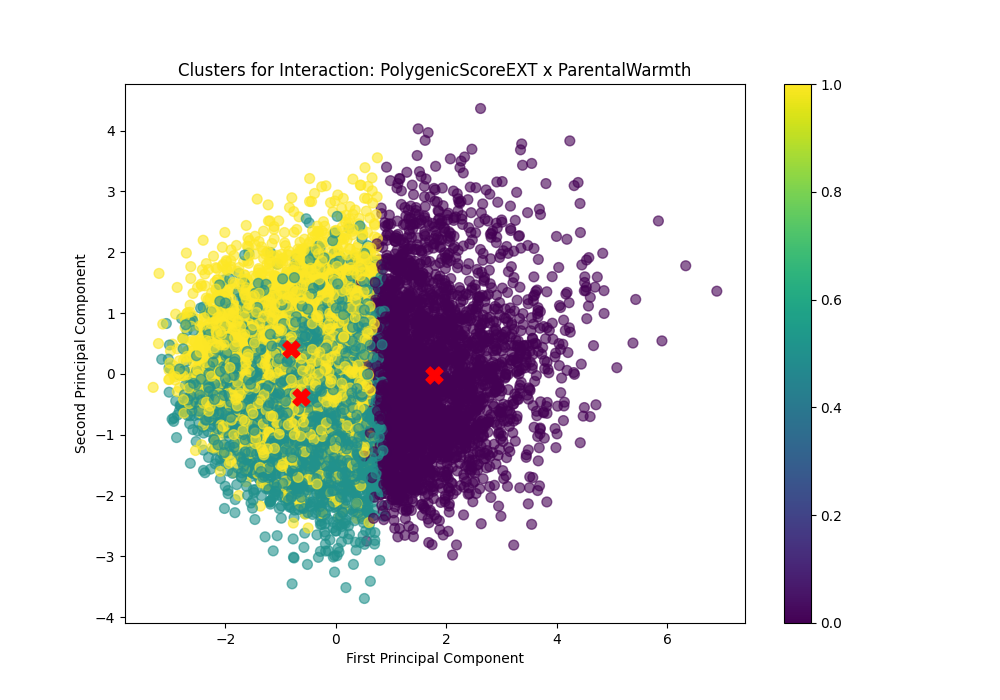
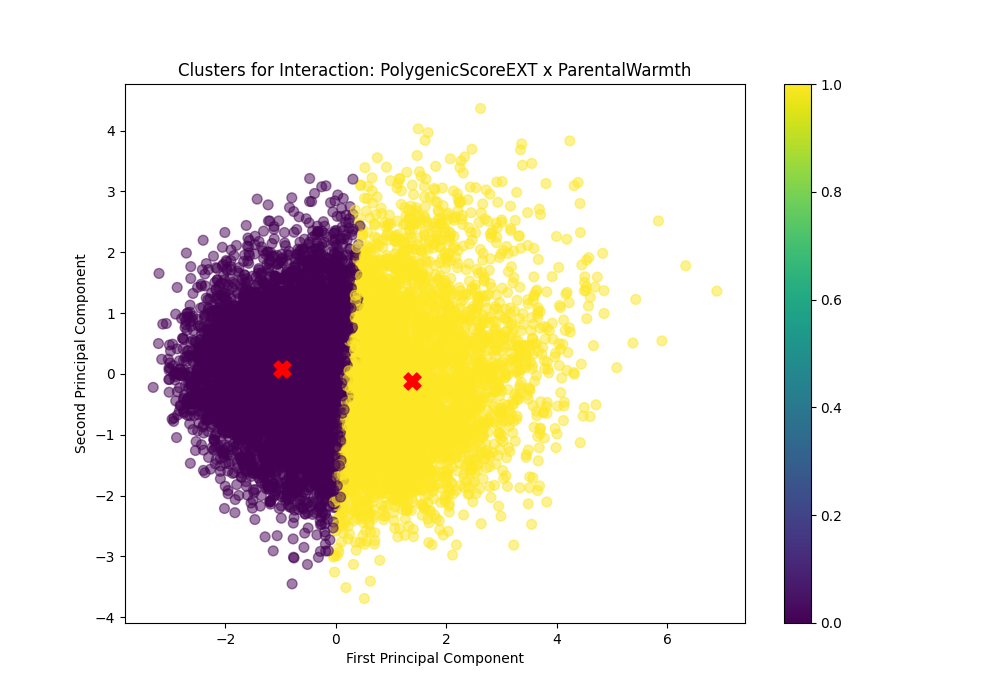
adding files realted to cluster analysis

diff --git a/Phase_1/project_scripts/evaluation/shapley_analysis.py b/Phase_1/project_scripts/evaluation/shapley_analysis.py
@@ -1,0 +1,99 @@
+import os
+import logging
+import pickle
+
+import shap
+import pandas as pd
+from sklearn.linear_model import LogisticRegression
+
+from Phase_1.config import TARGET_1, FEATURES
+from Phase_1.project_scripts import get_path_from_root
+from Phase_1.project_scripts.preprocessing.preprocessing import preprocess_ovr, split_data, imputation_pipeline, \
+    imputation_applier, scaling_pipeline, scaling_applier, balance_data
+from Phase_1.project_scripts.utility.data_loader import load_data_old
+from Phase_1.project_scripts.utility.model_utils import add_interaction_terms, train_model, save_results, \
+    ensure_directory_exists
+
+logging.basicConfig(level=logging.INFO)
+logger = logging.getLogger(__name__)
+
+MODEL_NAME = "logistic_regression_shapley"
+RESULTS_DIR = get_path_from_root("results", "evaluation", "shapley_analysis")
+TYPE_OF_CLASSIFICATION = "binary"
+
+
+def compute_shap_values(model, X):
+    explainer = shap.Explainer(model)
+    shap_values = explainer.shap_values(X)
+    return shap_values
+
+
+def save_shap_values(shap_values, key):
+    save_path = get_path_from_root(RESULTS_DIR, f"shap_values_{key}.pkl")
+    os.makedirs(os.path.dirname(save_path), exist_ok=True)
+    with open(save_path, 'wb') as file:
+        pickle.dump(shap_values, file)
+
+
+def main():
+    logger.info("Starting Shapley value analysis for one-vs-all logistic regression...")
+
+    ensure_directory_exists(RESULTS_DIR)
+
+    # Load data
+    df = load_data_old()
+    datasets = preprocess_ovr(df, "AntisocialTrajectory")
+
+    features = FEATURES.copy()
+    features.remove("PolygenicScoreEXT")
+    fixed_element = "PolygenicScoreEXT"
+
+    feature_pairs = [(fixed_element, x) for x in features if x != fixed_element]
+
+    for key, (X, y) in datasets.items():
+        for feature_pair in feature_pairs:
+            # Split, train using df_temp, and get metrics
+            X_train, X_test, y_train, y_test = split_data(X, y)
+
+            # Applying imputation and one-hot encoding on training data
+            impute = imputation_pipeline()
+            X_train_imputed = imputation_applier(impute, X_train)
+
+            # Generate interaction terms using the transformed column names for training data
+            X_train_final = add_interaction_terms(X_train_imputed, feature_pair)
+
+            # Capture transformed column names after preprocessing the training data
+            transformed_columns = X_train_final.columns.tolist()
+
+            # Applying imputation and one-hot encoding on testing data
+            X_test_imputed = imputation_applier(impute, X_test)
+
+            # Generate interaction terms using the transformed column names for testing data
+            X_test_final = add_interaction_terms(X_test_imputed, feature_pair)
+            X_test_final = pd.DataFrame(X_test_final)
+
+            # Applying scaling
+            scaler = scaling_pipeline(transformed_columns)
+            X_train_imputed_scaled, X_test_imputed_scaled = scaling_applier(scaler, X_train_final, X_test_final)
+            X_train_imputed_scaled = pd.DataFrame(X_train_imputed_scaled)
+
+            # Balancing data
+            # logger.info(f"Distribution before balancing:\n{y_train.value_counts(normalize=True)}\n")
+            X_train_resampled, y_train_resampled = balance_data(X_train_imputed_scaled, y_train, key)
+
+            # Training the model (you may want to reuse your train_model function)
+            model = LogisticRegression(max_iter=10000, multi_class='ovr', penalty="elasticnet", solver="saga", l1_ratio=0.5)
+            best_model = train_model(X_train_resampled, y_train_resampled, model, None, MODEL_NAME)
+
+            # Compute Shapley values
+            shap_values = compute_shap_values(best_model, X_test_imputed_scaled)
+
+            # Save Shapley values
+            save_shap_values(shap_values, key)
+        logger.info(f"Completed Shapley analysis for {key}.")
+
+    logger.info("Shapley value analysis completed.")
+
+
+if __name__ == '__main__':
+    main()

diff --git a/Phase_1/project_scripts/evaluation/cluster_analysis.py b/Phase_1/project_scripts/evaluation/cluster_analysis.py
@@ -49,7 +49,7 @@ def plot_elbow(X_scaled):
 
 def plot_clusters(X, clusters, feature_pair, pca_transformed_data, centroids_pca):
     plt.figure(figsize=(10, 7))
-    plt.scatter(pca_transformed_data[:, 0], pca_transformed_data[:, 1], c=clusters, cmap='viridis', s=50, alpha=0.6)
+    plt.scatter(pca_transformed_data[:, 0], pca_transformed_data[:, 1], c=clusters, cmap='viridis', s=50, alpha=0.5)  # Adjust the alpha parameter
     plt.scatter(centroids_pca[:, 0], centroids_pca[:, 1], color='red', s=150, marker='X')
     plt.title(f"Clusters for Interaction: {feature_pair[0]} x {feature_pair[1]}")
     plt.xlabel("First Principal Component")
@@ -87,7 +87,7 @@ if __name__ == "__main__":
 
         plot_elbow(X_scaled)
 
-        kmeans = KMeans(n_clusters=3, n_init=10)
+        kmeans = KMeans(n_clusters=2, n_init=10)
         clusters = kmeans.fit_predict(X_scaled)
 
         pca = PCA(n_components=2)
@@ -98,17 +98,13 @@ if __name__ == "__main__":
 
         # Extract cluster statistics
         centroids = scaler.inverse_transform(kmeans.cluster_centers_)
+        cluster_sizes = pd.Series(clusters).value_counts().sort_index()
 
         cluster_summary = {
             "interaction term": f"{feature_pair[0]}_x_{feature_pair[1]}",
             "silhouette_score": silhouette_score(X_scaled, clusters),
+            "centroids": centroids.tolist()
         }
-
-        cluster_stats = X_final.groupby(clusters).agg(['mean', 'std'])
-        for i in range(3):  # for each cluster
-            for column in X_final.columns:
-                cluster_summary[f"cluster_{i}_{column}_mean"] = cluster_stats[column]['mean'].iloc[i]
-                cluster_summary[f"cluster_{i}_{column}_std"] = cluster_stats[column]['std'].iloc[i]
 
         results.append(cluster_summary)
 

diff --git a/Phase_1/project_scripts/preprocessing/preprocessing.py b/Phase_1/project_scripts/preprocessing/preprocessing.py
@@ -113,7 +113,7 @@ def balance_data(X_train, y_train, key):
     # Reset indices before concatenation
     X_resampled = X_resampled.reset_index(drop=True)
     y_resampled = y_resampled.reset_index(drop=True)
-    
+
     # Combine resampled data
     resampled_data = pd.concat([X_resampled, y_resampled], axis=1)
     processed_data_path = get_path_from_root("data", "processed")

diff --git a/Phase_1/project_scripts/modeling/one_vs_all/BinLogReg_main.py b/Phase_1/project_scripts/modeling/one_vs_all/BinLogReg_main.py
@@ -40,7 +40,7 @@ def main():
     df = load_data_old()
 
     # Preprocess the data specific for OvR
-    datasets, features = preprocess_ovr(df, "AntisocialTrajectory")
+    datasets = preprocess_ovr(df, "AntisocialTrajectory")
 
     # List of features to consider for interactions
     # feature_pairs = list(itertools.combinations(features, 2))
